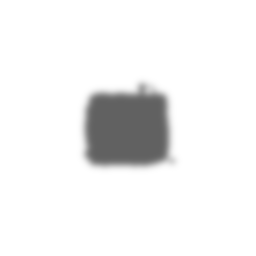
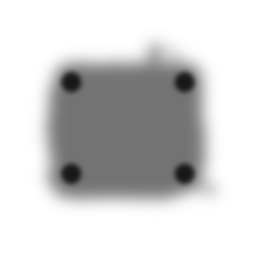
Bake the machine's shadow for the bench top
Plan 0016 step 2, ADR 0025. bake_ground.py now bakes a wide soft shadow
from the whole machine and a darker, tighter one from what lies within
3 cm of its base (the feet), over 1.6 times the machine's longest side
instead of 3, so the shadow stays on the bench top however the machine
is turned: 13.3 KB of 64 KB. ground.ts splits into the machine's shadow
plane (it turns with the machine), the floor beyond the bench with the
bench's own soft shadow, and the contact shadow for the toolbox. Until
step 4 puts the machine on the bench it still stands at floor level.

Changed region(s): [[0.1562, 0.1562, 0.8438, 0.8125]]

diff --git a/game/src/render/ground.ts b/game/src/render/ground.ts
@@ -1,36 +1,52 @@
-// The ground under the machine (ADR 0014): a dark surface that fades at its edges, with a soft contact shadow.
-// The shadow is the one baked in Blender (tools/blender/bake_ground.py) when it loaded; otherwise it is drawn from the
-// machine's footprint. The baked image spans the same 3x area as this plane.
+// What the machine stands on (ADR 0014, since plan 0016 and ADR 0025 a workbench): the machine's soft contact shadow on
+// the bench top, the floor beyond the bench, and small contact shadows for things standing on the bench (the toolbox).
+// The machine's shadow is the one baked in Blender (tools/blender/bake_ground.py) when it loaded; otherwise it is drawn
+// from the machine's footprint. The baked image spans the same SHADOW_SPAN as the shadow plane here.
 
 import { CanvasTexture, Mesh, MeshBasicMaterial, PlaneGeometry, SRGBColorSpace } from "three";
 import type { Vec3 } from "../core/index.ts";
 
 /** Texture size in pixels. Small: the shadow is soft and the budget is 64 KB (ADR 0014). */
 const PX = 256;
-/** The ground plane spans this many times the machine's longest side. */
-const SPAN = 3;
+/**
+ * The shadow plane spans this many times the machine's longest side; SPAN_FACTOR in bake_ground.py matches it. Small
+ * enough that the shadow stays on the bench top however the machine is turned (plan 0016).
+ */
+export const SHADOW_SPAN = 1.6;
 
 /** Shadow strength in the middle, and how far it spreads past the footprint, as a share of the footprint. */
-export const GROUND = { shadowAlpha: 0.62, spread: 0.18, floorAlpha: 0.07 } as const;
+export const GROUND = { shadowAlpha: 0.62, spread: 0.18, floorAlpha: 0.07, floorSpan: 5, benchShadowAlpha: 0.5 } as const;
 
-export function createGround(size: Vec3, baked: CanvasImageSource | null = null): Mesh {
-  const span = Math.max(size[0], size[2]) * SPAN;
+/** The side of the square the machine's shadow plane covers, metres. */
+export function shadowSpan(size: Vec3): number {
+  return Math.max(size[0], size[2]) * SHADOW_SPAN;
+}
+
+function flat(canvas: HTMLCanvasElement, width: number, depth: number, name: string): Mesh {
+  const texture = new CanvasTexture(canvas);
+  texture.colorSpace = SRGBColorSpace;
+  const material = new MeshBasicMaterial({ map: texture, transparent: true, depthWrite: false, toneMapped: false });
+  const mesh = new Mesh(new PlaneGeometry(width, depth), material);
+  mesh.name = name;
+  mesh.rotation.x = -Math.PI / 2;
+  mesh.renderOrder = -1;
+  return mesh;
+}
+
+/**
+ * The machine's contact shadow, centred under it in its own frame, lying just above its base: the bench top when it
+ * stands on the bench. It turns with the machine. `baked` is the image from bake_ground.py, or null to draw one.
+ */
+export function createMachineShadow(size: Vec3, baked: CanvasImageSource | null = null): Mesh {
+  const span = shadowSpan(size);
   const canvas = document.createElement("canvas");
   canvas.width = canvas.height = PX;
   const ctx = canvas.getContext("2d")!;
-  const c = PX / 2;
-
-  // A faint floor that fades to nothing at the edge, so the machine stands on something.
-  const floor = ctx.createRadialGradient(c, c, 0, c, c, c);
-  floor.addColorStop(0, `rgba(255, 248, 235, ${GROUND.floorAlpha})`);
-  floor.addColorStop(1, "rgba(255, 248, 235, 0)");
-  ctx.fillStyle = floor;
-  ctx.fillRect(0, 0, PX, PX);
-
   if (baked) {
     ctx.drawImage(baked, 0, 0, PX, PX);
   } else {
-    // The contact shadow: the footprint, blurred.
+    // The footprint, blurred.
+    const c = PX / 2;
     const w = (size[0] / span) * PX;
     const d = (size[2] / span) * PX;
     ctx.filter = `blur(${Math.round(Math.max(w, d) * GROUND.spread)}px)`;
@@ -38,21 +54,40 @@ export function createGround(size: Vec3, baked: CanvasImageSource | null = null)
     ctx.fillRect(c - w / 2, c - d / 2, w, d);
     ctx.filter = "none";
   }
-
-  const texture = new CanvasTexture(canvas);
-  texture.colorSpace = SRGBColorSpace;
-  const material = new MeshBasicMaterial({ map: texture, transparent: true, depthWrite: false, toneMapped: false });
-  const mesh = new Mesh(new PlaneGeometry(span, span), material);
-  mesh.name = "ground";
-  mesh.rotation.x = -Math.PI / 2;
-  mesh.position.y = 0.0005;
-  mesh.renderOrder = -1;
+  const mesh = flat(canvas, span, span, "machine_shadow");
+  mesh.position.y = 0.0008;
   return mesh;
 }
 
 /**
- * A soft contact shadow for something standing on the ground beside the machine (the toolbox, plan 0012): a blurred
- * rectangle of `width` by `depth` metres, in the object's own frame, lying just above the ground.
+ * The floor beyond the bench: a faint surface that fades to nothing at its edge, with the bench's own soft shadow under
+ * it (`benchWidth` by `benchDepth` metres, centred on the plane's middle). Lies at floor level.
+ */
+export function createFloor(benchWidth: number, benchDepth: number): Mesh {
+  const span = GROUND.floorSpan;
+  const canvas = document.createElement("canvas");
+  canvas.width = canvas.height = PX;
+  const ctx = canvas.getContext("2d")!;
+  const c = PX / 2;
+  const floor = ctx.createRadialGradient(c, c, 0, c, c, c);
+  floor.addColorStop(0, `rgba(255, 248, 235, ${GROUND.floorAlpha})`);
+  floor.addColorStop(1, "rgba(255, 248, 235, 0)");
+  ctx.fillStyle = floor;
+  ctx.fillRect(0, 0, PX, PX);
+  const w = (benchWidth / span) * PX;
+  const d = (benchDepth / span) * PX;
+  ctx.filter = `blur(${Math.round(d * 0.25)}px)`;
+  ctx.fillStyle = `rgba(0, 0, 0, ${GROUND.benchShadowAlpha})`;
+  ctx.fillRect(c - w / 2, c - d / 2, w, d);
+  ctx.filter = "none";
+  const mesh = flat(canvas, span, span, "floor");
+  mesh.position.y = 0.0005;
+  return mesh;
+}
+
+/**
+ * A soft contact shadow for something standing beside the machine (the toolbox, plan 0012): a blurred rectangle of
+ * `width` by `depth` metres, in the object's own frame, lying just above what it stands on.
  */
 export function createContactShadow(width: number, depth: number): Mesh {
   const px = 64;
@@ -63,13 +98,7 @@ export function createContactShadow(width: number, depth: number): Mesh {
   ctx.filter = `blur(${Math.round(px * 0.08)}px)`;
   ctx.fillStyle = `rgba(0, 0, 0, ${GROUND.shadowAlpha})`;
   ctx.fillRect(px * 0.2, px * 0.2, px * 0.6, px * 0.6);
-  const texture = new CanvasTexture(canvas);
-  texture.colorSpace = SRGBColorSpace;
-  const material = new MeshBasicMaterial({ map: texture, transparent: true, depthWrite: false, toneMapped: false });
-  const mesh = new Mesh(new PlaneGeometry(width / 0.6, depth / 0.6), material);
-  mesh.name = "contact_shadow";
-  mesh.rotation.x = -Math.PI / 2;
+  const mesh = flat(canvas, width / 0.6, depth / 0.6, "contact_shadow");
   mesh.position.y = 0.001;
-  mesh.renderOrder = -1;
   return mesh;
 }

diff --git a/game/src/render/view.ts b/game/src/render/view.ts
@@ -33,7 +33,7 @@ import { armAnchor, armSideOnTrip, basisToQuaternion, cheapest, gripShapeFor, ty
 import type { RenderAssets, Tool } from "./model.ts";
 import { buildMachine, setPartOpacity, sizeHitVolumes, type FastenerView, type PartView } from "./placeholders.ts";
 import { createThumbnailer } from "./thumbnails.ts";
-import { createContactShadow, createGround } from "./ground.ts";
+import { createContactShadow, createMachineShadow } from "./ground.ts";
 import { createLighting } from "./lighting.ts";
 import { clamp01, ease, Tweens, type TweenSpec } from "./tween.ts";
 
@@ -96,7 +96,7 @@ export function mountRender(container: HTMLElement, game: Game, assets: RenderAs
   lighting.addTo(scene);
   // Diagnostic mode reads this; it may not import render (ADR 0010).
   document.documentElement.dataset.lighting = lighting.rig;
-  scene.add(createGround(machine.size, assets.ground));
+  scene.add(createMachineShadow(machine.size, assets.ground));
 
   const view = buildMachine(machine, assets.model);
   document.documentElement.dataset.model = assets.model ? (view.fallbacks.length ? "partial" : "glb") : "placeholders";

diff --git a/game/tests/render.test.ts b/game/tests/render.test.ts
@@ -1098,3 +1098,13 @@ describe("the arm reaches the toolbox's side early (0.11.1 follow-up)", () => {
     expect(armSideOnTrip("toToolbox", 0.35, -1)).toBeLessThan(1);
   });
 });
+
+describe("the machine's shadow on the bench top (plan 0016 step 2, ADR 0025)", () => {
+  it("the shadow plane and the Blender bake span the same share of the machine", async () => {
+    const { SHADOW_SPAN, shadowSpan } = await import("../src/render/ground.ts");
+    const { readFileSync } = await import("node:fs");
+    const bake = readFileSync(new URL("../../tools/blender/bake_ground.py", import.meta.url), "utf8");
+    expect(Number(/^SPAN_FACTOR = ([0-9.]+)/m.exec(bake)?.[1])).toBe(SHADOW_SPAN);
+    expect(shadowSpan([0.367, 0.375, 0.312])).toBeCloseTo(0.367 * SHADOW_SPAN, 9);
+  });
+});

diff --git a/tools/blender/bake_ground.py b/tools/blender/bake_ground.py
@@ -1,10 +1,14 @@
-"""Bakes the ground contact shadow from the assembled machine (plan 0005 step 6, ADR 0014).
+"""Bakes the machine's contact shadow on the bench top from the assembled machine (plan 0005 step 6, ADR 0014; since
+plan 0016 and ADR 0025 it lies on the workbench's top, not the ground).
 
     node tools/run-blender.mjs tools/blender/bake_ground.py --blend assets/gen950/blend/gen950.blend
 
-Renders the machine straight down with an orthographic camera into a transparent image, takes its coverage, blurs it
-into a soft shadow, and writes assets/gen950/export/ground.png: black with the shadow in the alpha channel. The image
-spans 3 times the machine's longest side, the same span as the game's ground plane (game/src/render/ground.ts).
+Renders the machine straight down with an orthographic camera into a transparent image twice: all of it, and only what
+lies within CONTACT_M of its base (the feet and the bottom of the frame, which touch the bench top). Each coverage is
+blurred and the two are combined: a wide soft shadow under the whole machine and a darker, tighter one where it stands.
+Writes assets/gen950/export/ground.png: black with the shadow in the alpha channel. The image spans SPAN_FACTOR times
+the machine's longest side, the same span as the game's shadow plane (SHADOW_SPAN in game/src/render/ground.ts), small
+enough to stay on the bench top however the machine is turned.
 """
 
 import os
@@ -17,10 +21,13 @@ sys.path.insert(0, os.path.dirname(__file__))
 import common  # noqa: E402
 
 common.check_version()
-PX = 256  # the shadow is soft; 256 px over about 1.1 m is plenty and stays far inside 64 KB
-SPAN_FACTOR = 3.0
-STRENGTH = 0.62  # matches GROUND.shadowAlpha in the game
-BLUR_M = 0.03  # blur radius in metres
+PX = 256  # the shadow is soft; 256 px over about 0.6 m is plenty and stays far inside 64 KB
+SPAN_FACTOR = 1.6  # matches SHADOW_SPAN in game/src/render/ground.ts
+STRENGTH = 0.55  # the wide shadow under the whole machine
+BLUR_M = 0.035  # its blur radius in metres
+CONTACT_M = 0.03  # height above the base that counts as touching the bench
+CONTACT_STRENGTH = 0.8
+CONTACT_BLUR_M = 0.012
 
 machine = common.load_machine()
 span = max(machine["size"][0], machine["size"][2]) * SPAN_FACTOR
@@ -39,7 +46,8 @@ cam_data.type = "ORTHO"
 cam_data.ortho_scale = span
 cam = bpy.data.objects.new("cam_ground", cam_data)
 scene.collection.objects.link(cam)
-cam.location = (0, 0, 2)
+CAM_Z = 2.0
+cam.location = (0, 0, CAM_Z)
 cam.rotation_euler = (0, 0, 0)  # looking straight down -Z; image up is Blender +Y, which is glTF -Z (the back)
 scene.camera = cam
 
@@ -52,11 +60,21 @@ scene.render.film_transparent = True
 scene.render.image_settings.file_format = "PNG"
 scene.render.image_settings.color_mode = "RGBA"
 scene.render.filepath = raw_path
-bpy.ops.render.render(write_still=True)
 
-img = bpy.data.images.load(raw_path)
-pixels = np.array(img.pixels[:], dtype=np.float32).reshape(PX, PX, 4)
-coverage = pixels[:, :, 3]
+
+def coverage(clip_start):
+    """The machine's coverage seen from above, of what lies below CAM_Z - clip_start (Blender Z, the base at 0)."""
+    cam_data.clip_start = clip_start
+    cam_data.clip_end = CAM_Z + 1.0
+    bpy.ops.render.render(write_still=True)
+    img = bpy.data.images.load(raw_path)
+    a = np.array(img.pixels[:], dtype=np.float32).reshape(PX, PX, 4)[:, :, 3].copy()
+    bpy.data.images.remove(img)
+    return a
+
+
+whole = coverage(0.01)
+base = coverage(CAM_Z - CONTACT_M)
 
 
 def blur(a, radius_px):
@@ -71,7 +89,9 @@ def blur(a, radius_px):
     return a
 
 
-shadow = np.clip(blur(coverage, BLUR_M / span * PX) * STRENGTH, 0, 1)
+soft = np.clip(blur(whole, BLUR_M / span * PX) * STRENGTH, 0, 1)
+contact = np.clip(blur(base, CONTACT_BLUR_M / span * PX) * CONTACT_STRENGTH, 0, 1)
+shadow = 1 - (1 - soft) * (1 - contact)  # the two together, never darker than either alone allows
 result = np.zeros((PX, PX, 4), dtype=np.float32)
 result[:, :, 3] = shadow
 out_img = bpy.data.images.new("ground", PX, PX, alpha=True)
